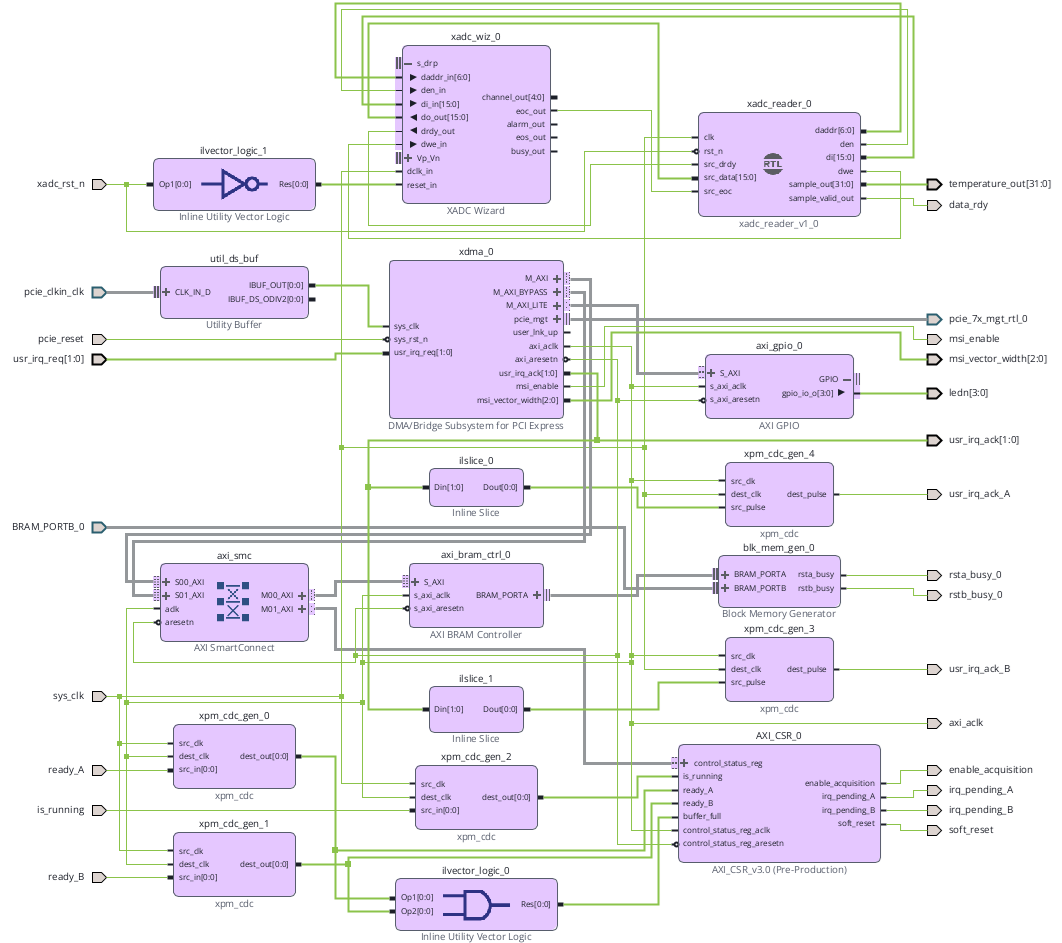
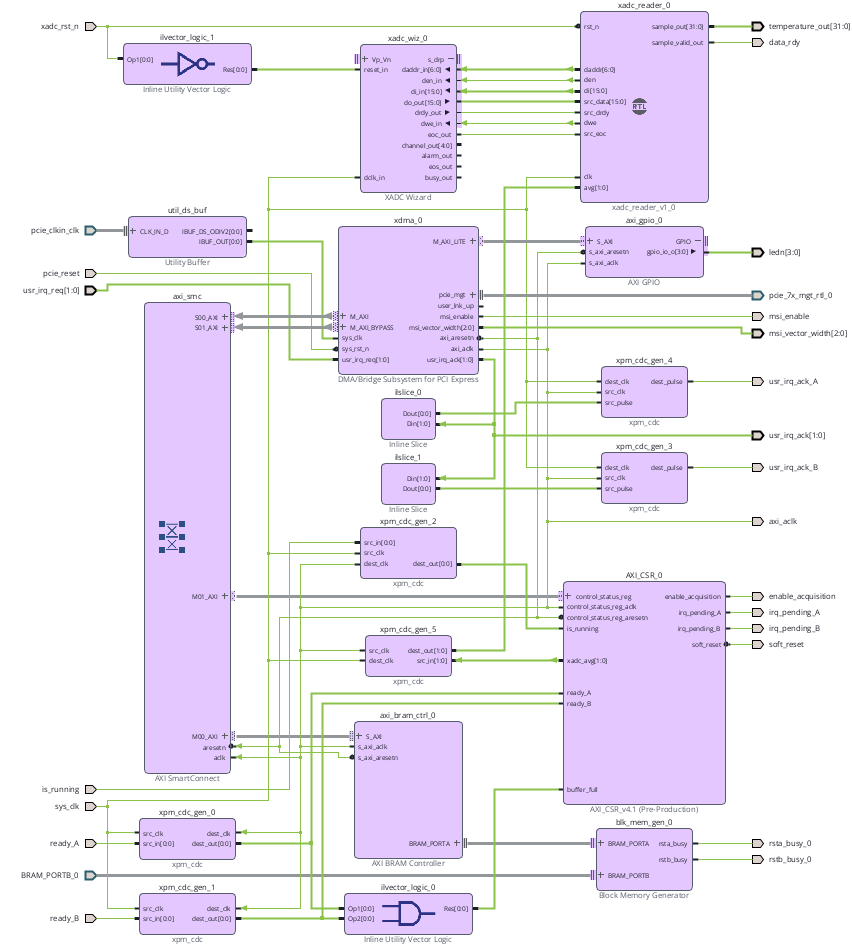
Update README and GUI documentation to reflect XADC averaging configuration changes

diff --git a/fpga/README.md b/fpga/README.md
@@ -71,15 +71,20 @@ the easiest way to feed the buffer path a known pattern without the XADC.
 
 ### `xadc_reader.vhd`
 
-Talks to the DRP (Dynamic Reconfiguration Port) side of the XADC Wizard.
-Stays small, the wizard handles the actual ADC, so this basically waits for
-`eoc`, pulses `den` for a cycle, waits for `drdy` and latches the top 12 bits
-of the DRP word into a 32-bit sample. `daddr` is only assigned in reset,
-which leaves it at 0, the temperature register.
+Talks through the DRP (Dynamic Reconfiguration Port) of the XADC Wizard-Block. 
+The entity reads samples and sets the averaging: 1, 16, 64 and 256. The entity is
+one FSM that reads samples and sets the averaging (1, 16, 64 or 256)
+For reading a sample it waits for `eoc`, pulses `den`, waits for `drdy` and takes the
+top 12 bits of the DRP word. `daddr` points at the temperature register.
+The averaging sits in configuration register 0 (`0x40`). When `avg` changes,
+the FSM reads that register, puts in the two new bits and writes it back. The
+other bits stay as they were. After a reset it does this once anyway, so the
+XADC and the CSR agree from the start.
+During a config write the FSM ignores `eoc`. One conversion is lost every
+time the averaging changes.
 
-The fourth state exists only to wait for `drdy` to fall again. Without it
-`sample_valid_out` stays high and `ping_pong_ctrl` writes the same value
-every clock cycle instead of once per conversion.
+All DRP transfers use the same handshake: `den`, wait for `drdy`, wait for
+`drdy` low again. The last wait keeps `sample_valid_out` one cycle long.
 
 ### `ping_pong_ctrl.vhd`
 
@@ -127,15 +132,15 @@ to 2.
 | IP instance | Role |
 |---|---|
 | `xdma_0` | Xilinx XDMA core. PCIe Gen2 x4 endpoint, handles the link and generates the MSI interrupts. `M_AXI` and `M_AXI_BYPASS` reach the CSR and the BRAM through `axi_smc`, `M_AXI_LITE` goes to `axi_gpio_0`. Now drives two `usr_irq_req` lines instead of one. |
-| **`AXI_CSR_0`** | **My own IP.** The custom AXI4-Lite slave from [litefury_pcie_daq](https://github.com/sanfour2011/litefury_pcie_daq), repackaged as v3.0. Gained `SOFT_RESET` in `CONTROL` and a second write-1-to-clear pending bit in `STATUS`. It also raises those pending bits itself, on the rising edge of `ready_A` / `ready_B`. See the register map in the top-level project README for the exact bit layout. |
+| **`AXI_CSR_0`** | **My own IP.** The custom AXI4-Lite slave from [litefury_pcie_daq](https://github.com/sanfour2011/litefury_pcie_daq),repackaged as v4.1. `CONTROL` now has `SOFT_RESET` and the XADC averaging bits, `STATUS` has a second write-1-to-clear pending bit. It raises those pending bits itself, on the rising edge of `ready_A` / `ready_B`. `CONTROL` has no write mask per bit, so the host should do a read-modify-write. See the register map in the top-level project README for the exact bit layout. |
 | **`xadc_reader_0`** | **My own RTL, but not packaged as IP.** `xadc_reader.vhd` is pulled into the block design as a module reference (**Add Module...** on the canvas), so it stays a plain source file instead of living in `ip_repo`. That is why it shows up as `module_ref` and carries the RTL badge in the diagram. |
-| `xadc_wiz_0` | Xilinx XADC Wizard. Single channel on the die temperature sensor, DRP interface, 40 kSPS with 16x averaging and offset/gain calibration enabled. |
+| `xadc_wiz_0` | Xilinx XADC Wizard. Single channel on the die temperature sensor, DRP interface, Default averaging set here to 64 at power-up, the host can change it through CSR. and offset/gain calibration enabled. |
 | `axi_bram_ctrl_0` | Bridges the host-facing AXI4 (byte-addressed) side of the buffer to Port A of the Block RAM. |
 | `blk_mem_gen_0` | The dual-clock Block RAM itself. Port A (byte-addressed) faces the host through the BRAM controller; Port B (word-addressed) is driven directly from `top_level.vhd` by `ping_pong_ctrl`. This dual-clock BRAM is the data-path clock domain crossing. |
 | `axi_smc` | AXI SmartConnect. Routes the XDMA masters to the right slave (`AXI_CSR_0`, `axi_bram_ctrl_0`) based on address. |
 | `axi_gpio_0` | Drives the 4 onboard LEDs, active-low, from the host side. Same as in [litefury_pcie_daq](https://github.com/sanfour2011/litefury_pcie_daq): superseded by the `sysclk` heartbeat in `top_level.vhd`, its output is left `open` and it stays as a working AXI-GPIO reference point. |
 | `util_ds_buf` | Differential clock buffer for the PCIe reference clock input. |
-| `xpm_cdc_gen_0` to `_4` | The block-design half of the CDC. Three single-bit macros carry `ready_A`, `ready_B` and `is_running` into `axi_aclk`, two pulse-transfer macros carry the IRQ acks the other way. |
+| `xpm_cdc_gen_0` to `_5` | The block-design half of the CDC. Three single-bit macros carry `ready_A`, `ready_B` and `is_running` into `axi_aclk`, two pulse-transfer macros carry the IRQ acks the other way. |
 | `ilslice_0`, `ilslice_1` | Split `usr_irq_ack[1:0]` into its A and B bits before they cross domains. |
 | `ilvector_logic_0` | AND gate feeding `buffer_full` on the CSR, from the already synchronized `ready_A` and `ready_B`. |
 | `ilvector_logic_1` | Inverter on the XADC reset, the wizard wants it active high. |

diff --git a/host_app/gui/README.md b/host_app/gui/README.md
@@ -42,15 +42,15 @@ runs the same four steps:
 
 There is a limit in this design and it is worth knowing about. `SamplesReady` is
 a plain event, so the call blocks until every subscriber is done. Your handler
-has to finish before the other half fills up. With 16x averaging on the XADC
-there is plenty of time. Turn the averaging down and that margin gets thin.
+has to finish before the other half fills up.
 
 The GUI subscribes to that event and pushes the work onto the UI thread with
 `Dispatcher.UIThread.Post`, which does not block the reader. Raw values go
 through `TemperatureConverter`, then through `SampleAverager`, then into a
 `SampleHistory` ring buffer and the ScottPlot streamer. The two register boxes
 do not work that way. A timer just reads CTRL and STATUS periodically, whether
-anything happened or not.
+anything happened or not. The XADC averaging is set with the radio buttons and goes straight to CTRL. 
+The software averaging next to it only changes the window of the moving average.
 
 Three small classes do the actual math:
 

diff --git a/README.md b/README.md
@@ -213,7 +213,8 @@ Base address: BAR-mapped, see `lspci`.
 | :---: | :--- | :---: | :---: | :--- |
 | **`0`** | `ENABLE_ACQUISITION` | `RW` | `0b0` | **`1`**: Start acquisition<br>**`0`**: Stop / idle |
 | **`1`** | `SOFT_RESET` | `RW` | `0b0` | **`1`**: Reset the acquisition side and the CSR |
-| **`31:2`** | *Reserved* | — | `0x0` | *Reserved for future use* |
+| **`3:2`** | `XADC_AVG` | `RW` | `0b10` | XADC averaging: **`00`** = 1, **`01`** = 16 **`10`** = 64, **`11`** = 256 |
+| **`31:4`** | *Reserved* | — | `0x0` | *Reserved for future use* |
 
 > `SOFT_RESET` clears itself. Writing the bit resets every register in the
 > CSR, and `CONTROL` is one of them, so the bit reads back as `0`. **Do not wait
